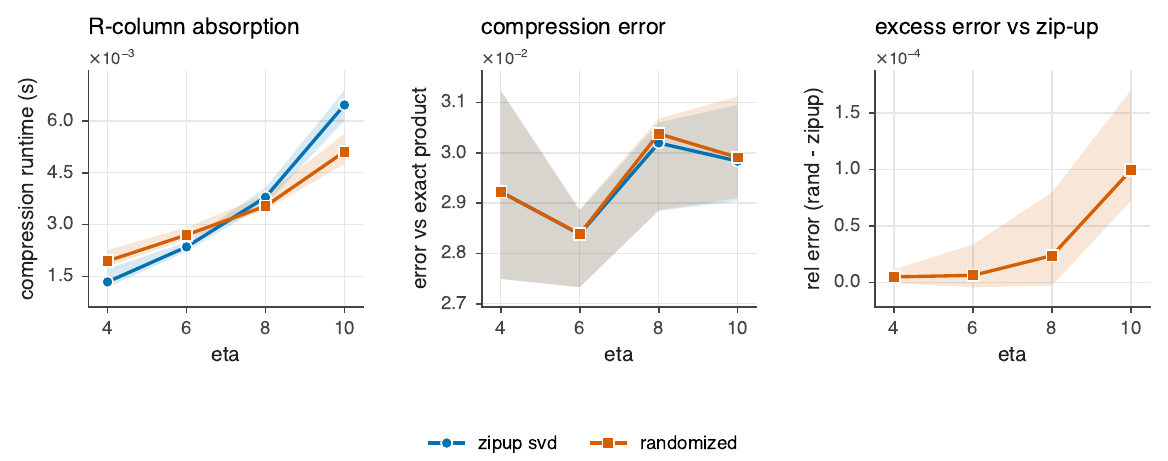
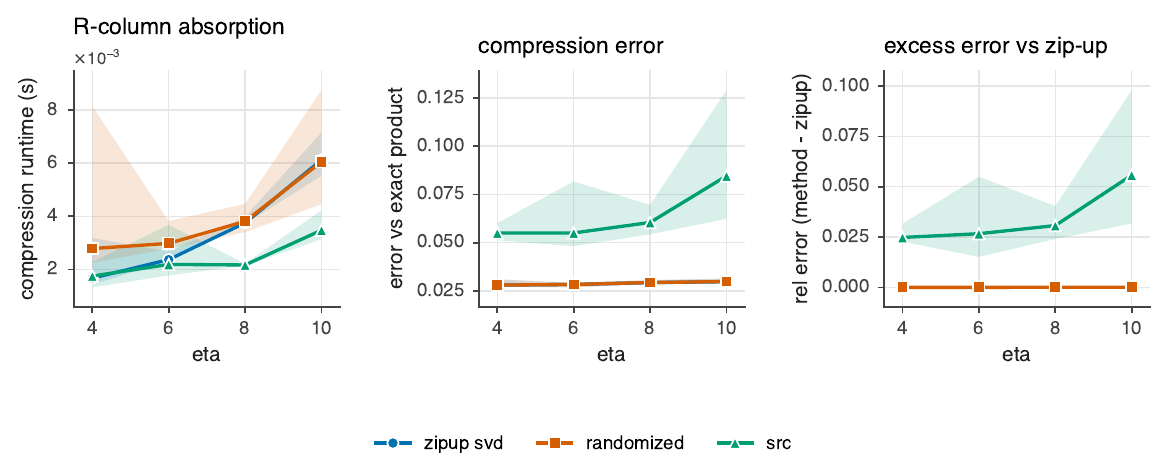
exp3: add SRC as a third absorption method + update summary
zip-up SVD and randomized both form the inflated product MPS then compress;
SRC (Camaño, vendored) sketches it site-by-site without forming the product bond.
exp3 now runs all three (added "src" to the palette/markers, METHODS, and the
excess-vs-zipup panel). Result: SRC is fastest at larger eta but trades ~2.5-5%
excess error at fixed rank (no oversampling) -- it approximates the product from
a rank-eta sketch rather than truncating the exact product. summary.md exp3
section + open-frontiers list updated.

diff --git a/synthetic/experiments/exp3_r_column_absorption.py b/synthetic/experiments/exp3_r_column_absorption.py
@@ -18,7 +18,8 @@ from rand_isopeps.parallel import auto_worker_count, flatten, run_parallel, with
 from rand_isopeps.plotting import MARKERS, PALETTE, Panel, Series, write_line_panels
 
 
-METHODS = ("zipup_svd", "randomized")
+METHODS = ("zipup_svd", "randomized", "src")
+EXCESS_METHODS = ("randomized", "src")  # excess error is measured against zip-up
 
 
 def _run_absorption_task(task: tuple[argparse.Namespace, int, int]) -> list[dict[str, object]]:
@@ -32,6 +33,7 @@ def _run_absorption_task(task: tuple[argparse.Namespace, int, int]) -> list[dict
             mps_bond=eta,
             mpo_bond=args.chi,
             target_bond=eta,
+            methods=METHODS,
             oversample=args.oversample,
             n_power=args.n_power,
             sketch=args.sketch,
@@ -87,7 +89,7 @@ def make_plot(rows: list[dict[str, object]], fig_path: str) -> None:
     panels = [
         Panel("R-column absorption", "eta", "compression runtime (s)", "linear", _series(rows, "runtime_s", METHODS)),
         Panel("compression error", "eta", "error vs exact product", "log", _series(rows, "rel_error_exact", METHODS)),
-        Panel("excess error vs zip-up", "eta", "rel error (rand - zipup)", "linear", _series(rows, "excess_error", ("randomized",))),
+        Panel("excess error vs zip-up", "eta", "rel error (method - zipup)", "linear", _series(rows, "excess_error", EXCESS_METHODS)),
     ]
     write_line_panels(fig_path, panels, width=1180, height=440)
 

diff --git a/rand_isopeps/plotting.py b/rand_isopeps/plotting.py
@@ -33,6 +33,7 @@ PALETTE = {
     "rand_both": "#cc79a7",    # reddish purple
     "zipup_svd": "#0072b2",
     "randomized": "#d55e00",
+    "src": "#009e73",          # bluish green
 }
 
 # Series name -> matplotlib marker code.
@@ -43,6 +44,7 @@ MARKERS = {
     "rand_both": "D",
     "zipup_svd": "o",
     "randomized": "s",
+    "src": "^",
 }
 
 # Accept both the legacy descriptive names and matplotlib codes.

diff --git a/synthetic/summary.md b/synthetic/summary.md
@@ -143,32 +143,41 @@ sequential Moses Move.
 
 ## Experiment 3 — R-column absorption (MPO–MPS compression)
 
-**Goal.** Compare deterministic **zip-up SVD** against **randomized local SVD** for
-compressing the residual column absorbed into the neighbor. A synthetic MPO is applied to
-an MPS, forming a product MPS with inflated bond $D_{\mathrm{prod}}=D_{\mathrm{MPO}}D_{\mathrm{MPS}}$,
-which is then compressed; error is measured against the exact product,
+**Goal.** Compare three ways to absorb the residual column into the neighbor:
+
+- **zip-up SVD** — form the product MPS (inflated bond $D_{\mathrm{prod}}=D_{\mathrm{MPO}}D_{\mathrm{MPS}}$) then compress it with a deterministic local-SVD sweep;
+- **randomized** — same product, but each local compression is a randomized SVD;
+- **SRC** — *successive randomized compression* (Camaño–Epperly–Tropp, arXiv:2504.06475, vendored under `rand_isopeps/randommpomps/`), which sketches the product **site-by-site and never forms the inflated bond**.
+
+Error is measured against the exact product,
 
 $$
 \epsilon_{\mathrm{absorb}} = \frac{\lVert (RC)_{\mathrm{exact}} - (RC)_{\mathrm{compressed}}\rVert_2}{\lVert (RC)_{\mathrm{exact}}\rVert_2}.
 $$
 
-Sweep $\eta\in\{4,6,8,10\}$ (MPS/target bond) at $L=8$ sites, $\chi=4$, 15 trials.
+Sweep $\eta\in\{4,6,8,10\}$ (MPS/target bond) at $L=8$ sites, $\chi=4$, 12 trials. All three
+compress to the same target bond $\eta$.
 
 ![exp3](figures/exp3-absorption.png)
 
 **Results.**
 
-- **Error is statistically identical** between zip-up and randomized,
-  $\epsilon_{\mathrm{absorb}}\approx 2.8\text{–}3.0\times10^{-2}$, with heavily overlapping
-  bands. The excess-error panel confirms randomized adds only $\sim 10^{-4}$ over zip-up
-  (a fraction of a percent of the truncation error), growing slowly with $\eta$.
-- **Timing crosses over with $\eta$.** On tiny cases ($\eta=4$) randomized carries sketch
-  overhead and is slower; by $\eta=10$ randomized **beats** zip-up (median, with separated
-  bands). The trend favors randomization as bonds grow, but the absolute sizes here are too
-  small to claim a robust speedup.
+- **zip-up and randomized are statistically identical**, $\epsilon_{\mathrm{absorb}}\approx
+  2.8\text{–}3.0\times10^{-2}$, with overlapping bands; randomized's excess over zip-up is only
+  $\sim 10^{-4}$. Randomized's timing crosses below zip-up's by $\eta=10$.
+- **SRC is the fastest at larger $\eta$** — by $\eta=10$ it runs in roughly half the time of
+  zip-up — precisely because it never builds the inflated product MPS (peak bond
+  $D_{\mathrm{prod}}$).
+- **SRC trades a little accuracy for that.** At a fixed target bond $\eta$ (no oversampling)
+  its error is $\sim 5\text{–}8\times10^{-2}$, i.e. a $\sim 2.5\text{–}5\times10^{-2}$ excess over
+  zip-up that grows with $\eta$. This is expected: SRC approximates the product from a rank-$\eta$
+  sketch rather than truncating the *exact* product, so at equal rank it is less accurate. The
+  win is asymptotic memory/scaling (avoiding $D_{\mathrm{prod}}$), not fixed-rank accuracy.
 
-**Caveat.** This is *not yet SRC*: it materializes the inflated product bond. Avoiding that
-intermediate via successive randomized / Khatri–Rao compression is the flagged next step.
+**Notes.** SRC accuracy is recoverable with oversampling or an adaptive cutoff (then it should
+track zip-up while still avoiding the product bond) — not tuned here. The sizes remain small, so
+read these as trends. SRC is now wired into the experiment (`--methods`/default includes it); the
+earlier "not yet SRC" caveat is resolved.
 
 ---
 
@@ -206,8 +215,9 @@ spectrum-dependent**: the stress sweep (exp1, power-law decay) and the spectrum 
 second-cut spectrum no longer decays quickly past $k_2$. The cases are deliberately tiny, so
 timing wins are real *in trend* but not to be over-interpreted.
 
-The open frontiers are (i) a true **SRC-style absorption** that avoids the inflated product
-bond; (ii) **power iterations / the disentangler** to recover accuracy under slow spectra;
+The open frontiers are (i) **tuning SRC** (oversampling / adaptive cutoff) so the
+product-bond-free absorption matches zip-up accuracy — SRC itself is now implemented and in
+exp3; (ii) **power iterations / the disentangler** to recover accuracy under slow spectra;
 (iii) a **true sequential Moses-Move carrier** (the column experiment is still a
 product-column surrogate); and (iv) the **disentangler** before the second SVD — the gauge
 choice that makes the second truncation itself less destructive, explored in `exp5` below.
